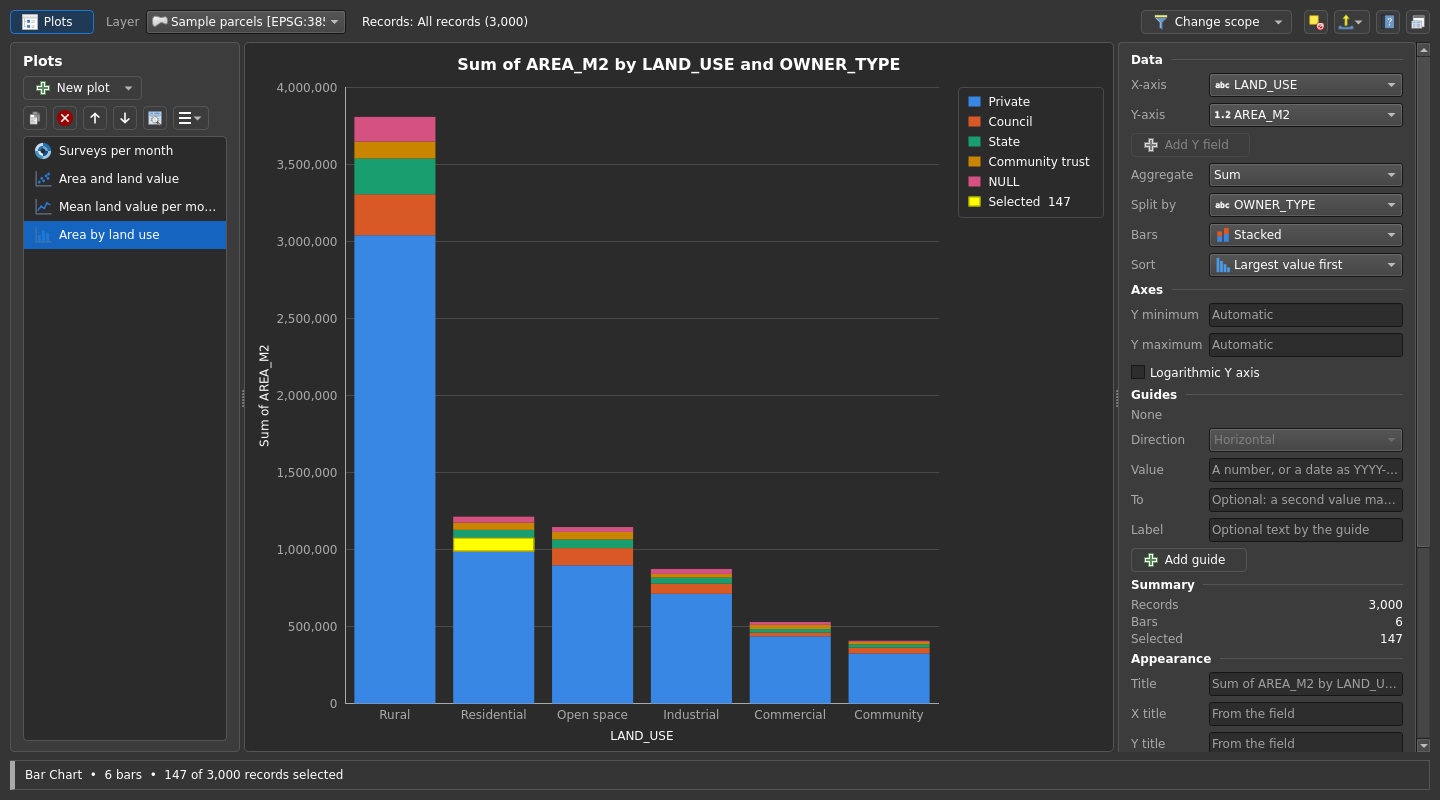
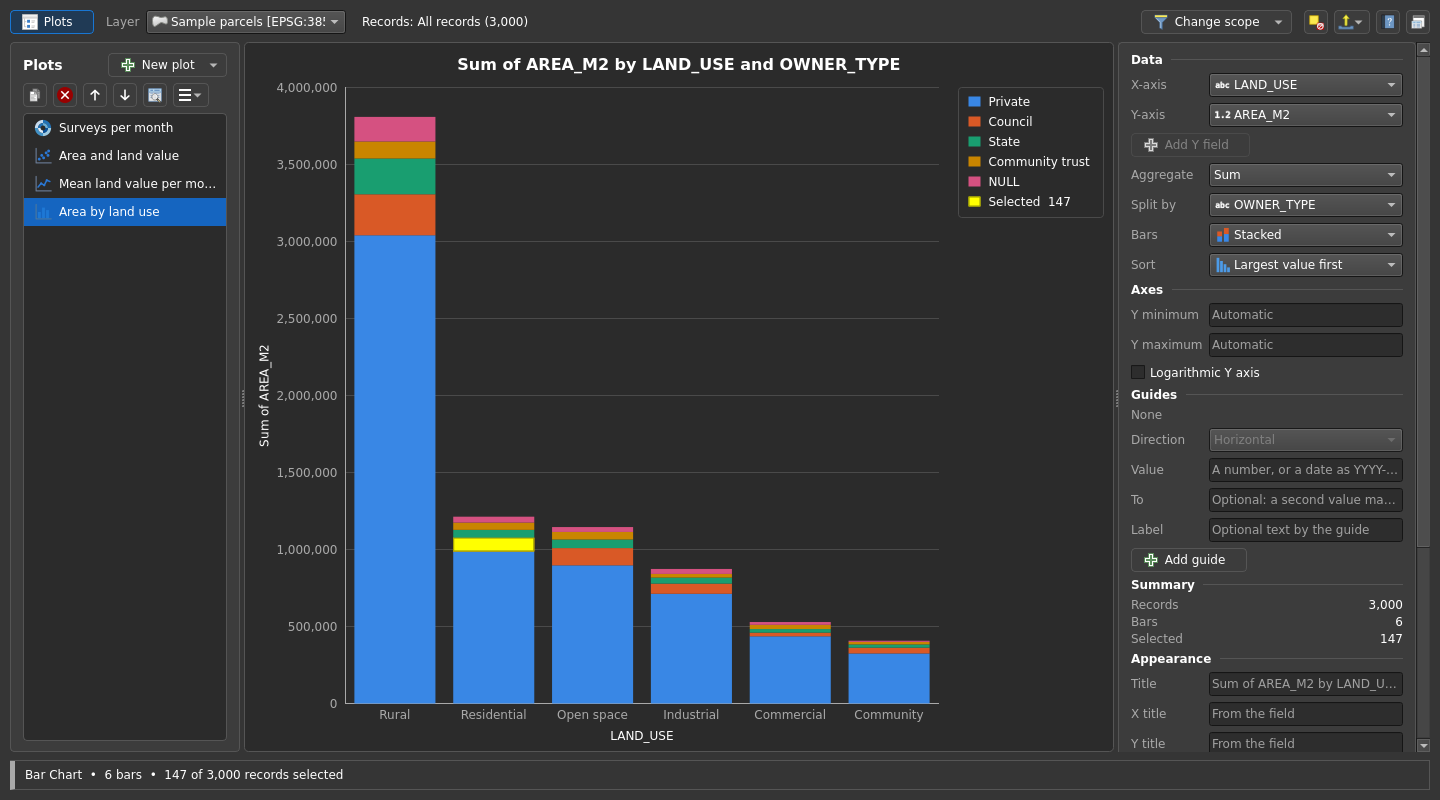
Data Plot: New plot beside the Plots heading
- The Plots card: the heading with New plot at its right, the list's
  buttons under it, then the list.
- Help Overview: the five list buttons are one numbered item (outlined as a
  row), so no badge sits beside New plot by mistake; picture made again.
- README screenshots of the window, README, changelog and plan updated.

Claude-Session: https://claude.ai/code/session_01Dz8GridfoCRSDNA4bXQhTf

Changed region(s): [[0.0, 0.0625, 0.1562, 0.3125]]

diff --git a/ui/data_plot.py b/ui/data_plot.py
@@ -1792,15 +1792,18 @@ class DataPlotPanel(QWidget):
 
     def _build_list(self):
         """The layer's plots, in a card like the Pivot Table's Build your
-        table: a heading, New plot and the list's buttons, then the list."""
+        table: the heading with New plot, the list's buttons, then the list."""
         m = self.metrics
         box = QFrame()
         box.setObjectName("gtsCard")
         lay = QVBoxLayout(box)
         lay.setContentsMargins(12, 10, 12, 10)
         lay.setSpacing(6)
-        lay.addWidget(W.label("Plots", "heading"))
-        buttons = QVBoxLayout()               # New plot and the list's buttons, on top
+        head = QHBoxLayout()                  # the heading, New plot at its right
+        head.addWidget(W.label("Plots", "heading"))
+        head.addStretch(1)
+        lay.addLayout(head)
+        buttons = QVBoxLayout()               # the list's buttons, above it
         buttons.setSpacing(6)
         lay.addLayout(buttons)
         self.plot_list = QListWidget()
@@ -1816,10 +1819,7 @@ class DataPlotPanel(QWidget):
         self.new_menu = fill_type_menu(QMenu(self), self.new_plot)
         self.new_btn = W.button(m, "New plot", icons.native(icons.ADD),
                                 "Make a new plot of this layer", menu=self.new_menu)
-        new_row = QHBoxLayout()
-        new_row.addWidget(self.new_btn)
-        new_row.addStretch(1)
-        buttons.addLayout(new_row)
+        head.addWidget(self.new_btn)
         row = QHBoxLayout()
         row.setSpacing(m.gap)
         self.dup_btn = W.square_button(m, icons.native(icons.COPY), "Duplicate the plot")

diff --git a/ui/help_pages.py b/ui/help_pages.py
@@ -672,14 +672,11 @@ PLOT = [
             I("dock_btn", "Dock", "Dock the window into QGIS, and undock it.", icons.DOCK),
             I("new_btn", "New plot", "Choose a plot type; then choose its fields under Data.",
               icons.ADD),
-            I("dup_btn", "Duplicate", "A copy of the plot, to try other settings.",
-              icons.COPY),
-            I("del_btn", "Delete", "Delete the plot.", icons.DELETE),
-            I("up_btn+down_btn", "Move up, Move down", "Change the order of the list."),
-            I("window_btn", "Open in new window",
-              "Show this plot in a second window, beside this one.", icons.TABLE_VISIBLE),
-            I("more_btn", "More", "Rename the plot, save it to a file or load one from a "
-              "file (on another layer with the same field names)."),
+            I("dup_btn+more_btn", "The list's buttons",
+              "Duplicate the plot (to try other settings), delete it, move it up or "
+              "down, open it in a second window beside this one, and More: rename it, "
+              "save it to a file or load one from a file (on another layer with the "
+              "same field names)."),
             I("plot_list", "The layer's plots",
               "Click a plot to show it; double-click to rename it; right-click for the "
               "same actions."),

diff --git a/README.md b/README.md
@@ -367,8 +367,8 @@ Explorer's filtered records. Data Plot is separate from Visualize Statistics
   again. Big layers are read in the background (progress and Cancel in the
   status bar) and only the fields a plot uses are kept.
 - **Plots**: every layer keeps a list of plots, saved in the QGIS project.
-  New plot and the list's buttons sit above the list: rename, duplicate,
-  delete, move, *Open in new window* (two plots side by side), *Save plot to
+  New plot sits beside the Plots heading and the list's buttons above the
+  list: rename, duplicate, delete, move, *Open in new window* (two plots side by side), *Save plot to
   file* and *Load plot from file*. The **Plots** button at the top left hides
   the list for a wider plot and shows it again; every window opens with the
   list shown.

diff --git a/docs/plans/DEV_V5.md b/docs/plans/DEV_V5.md
@@ -413,8 +413,8 @@ Explorer's Data Plot menu. Choices made while building:
   with the list's actions in a menu; B: a Plots button that hides the list
   card), B was chosen. The **Plots** button (checkable, top left) hides the
   Plots card and the plot takes its width; every window opens with the card
-  shown (not remembered). New plot and the list's buttons moved from under
-  the list to above it.
+  shown (not remembered). New plot moved to the right of the Plots heading
+  and the list's buttons to just under it, above the list.
 
 ## Round 4 built
 
